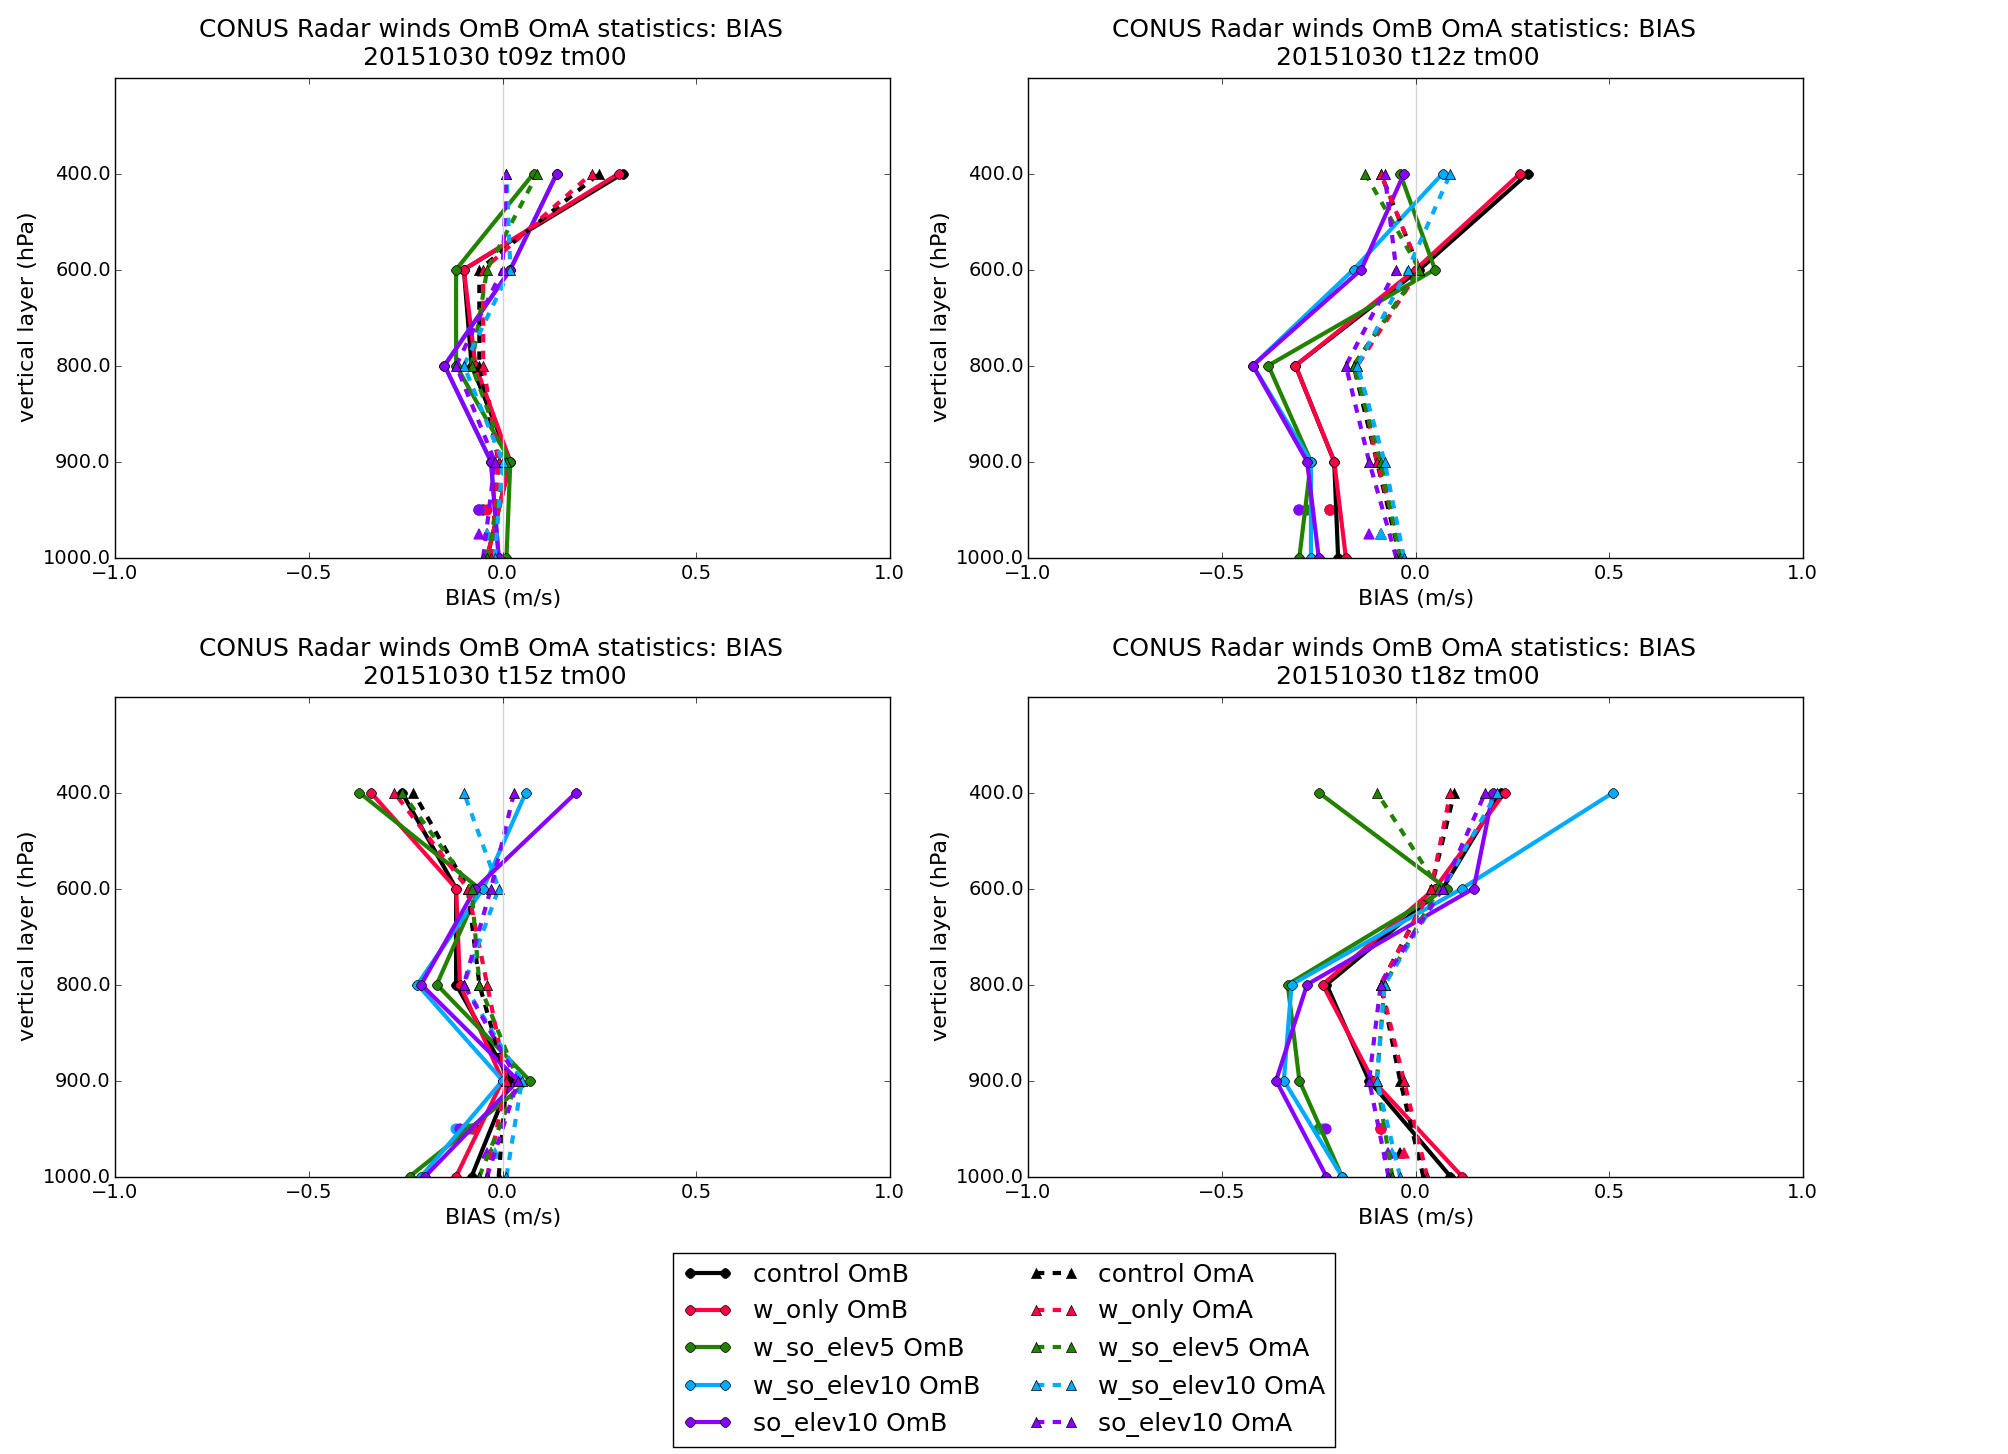
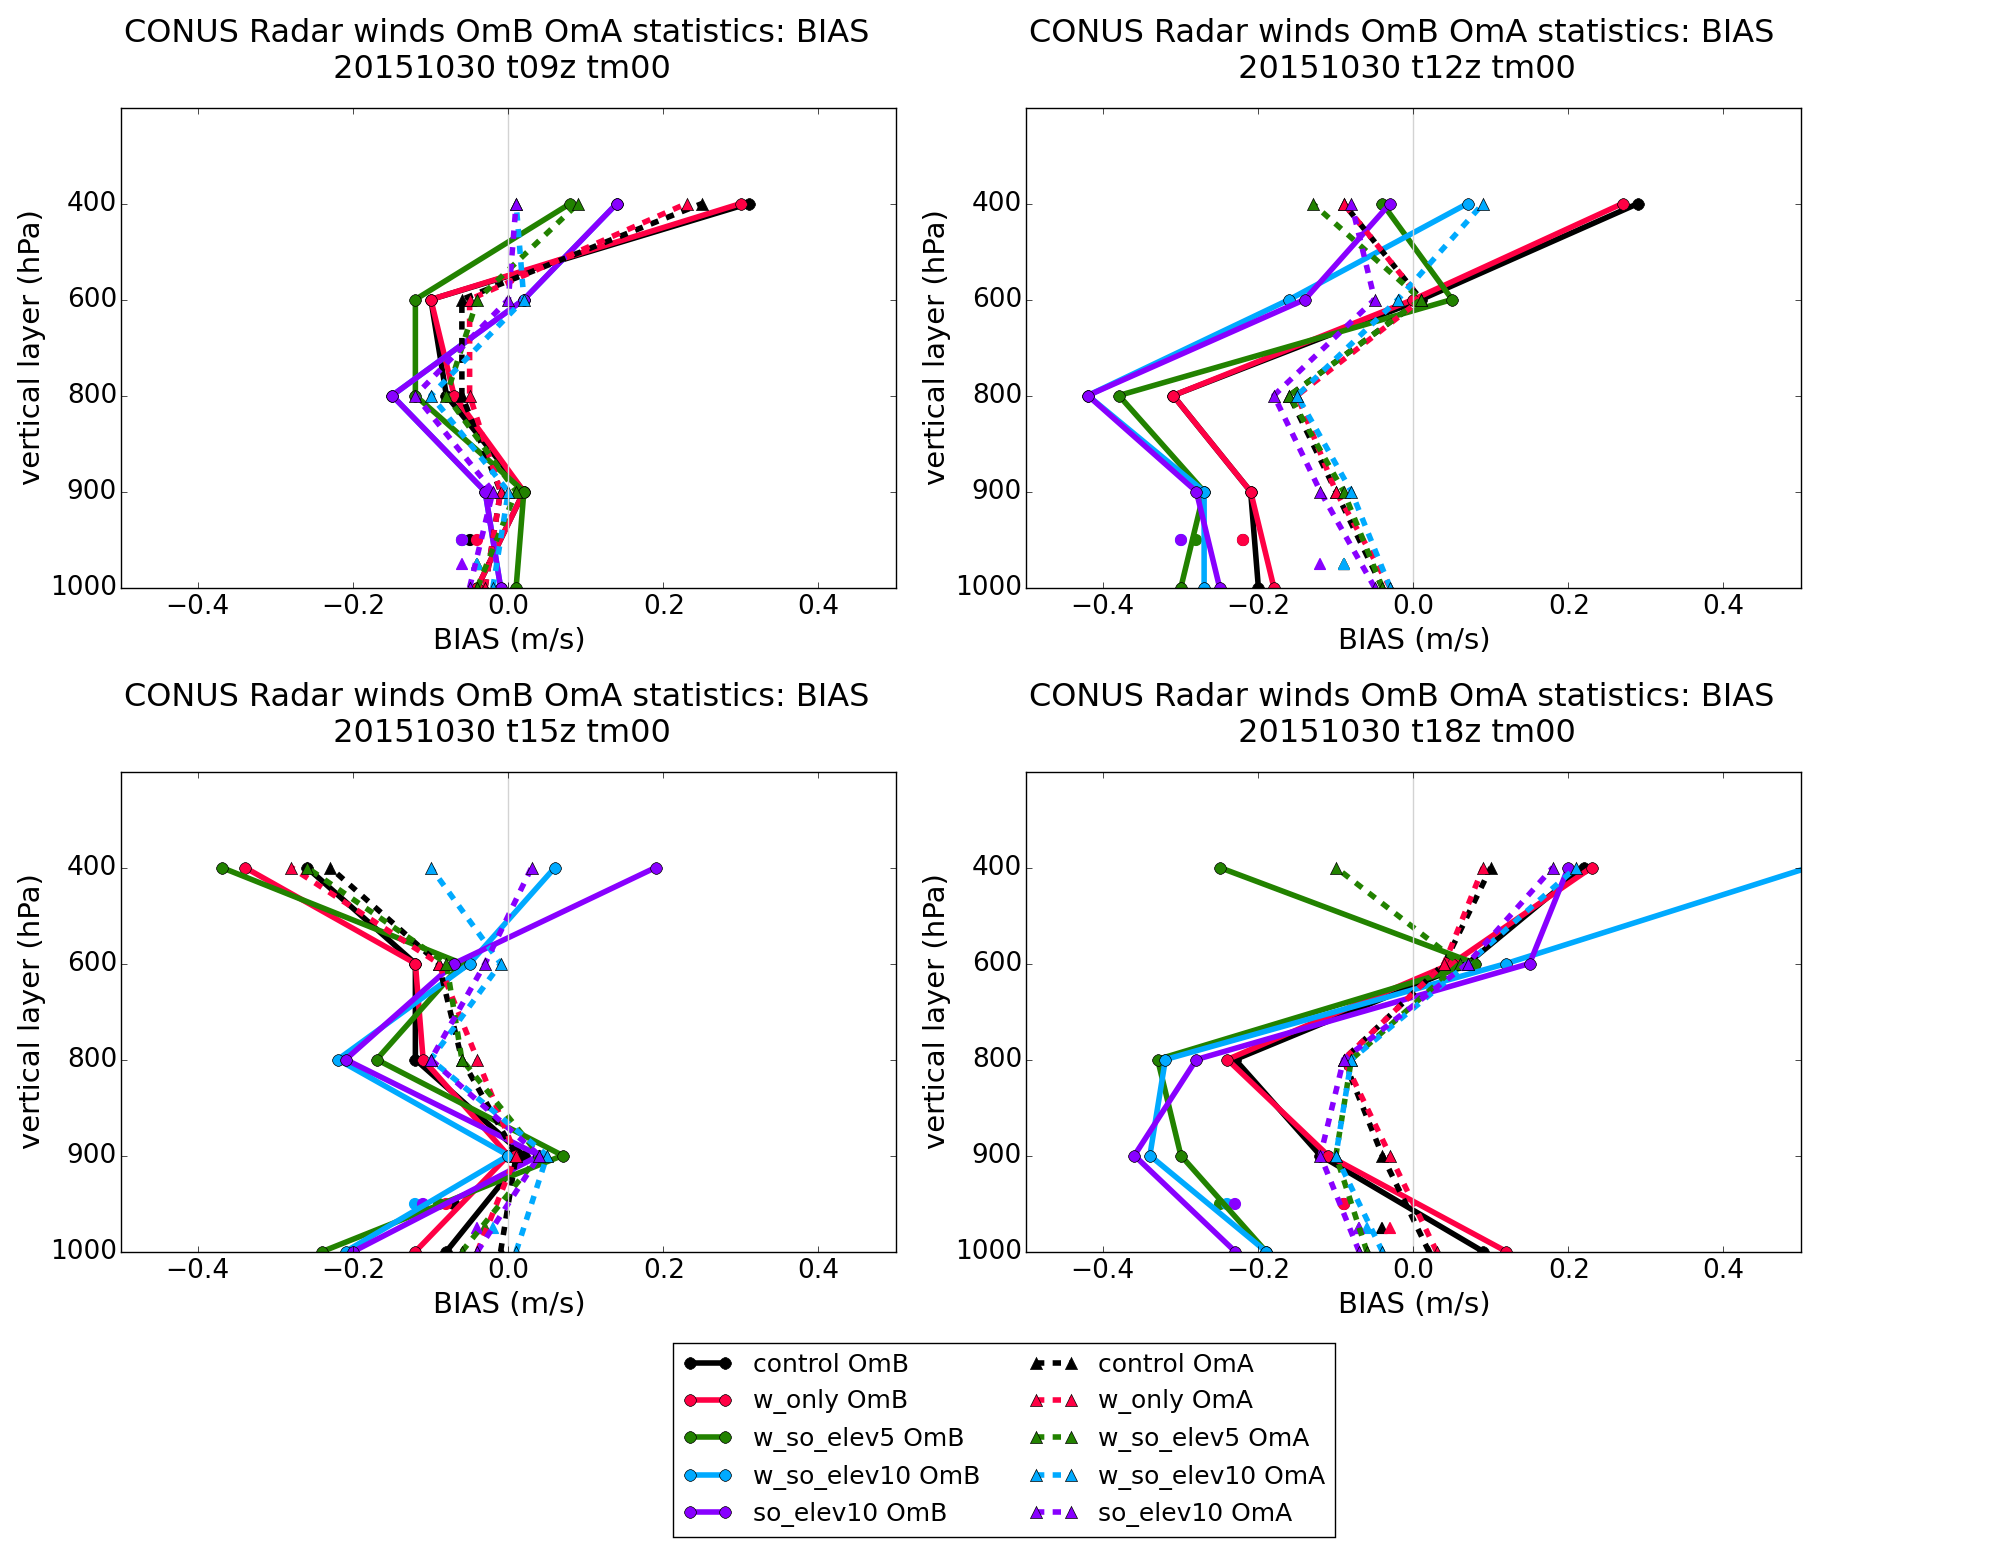
Update figures. Improve readability.

diff --git a/namv4/plot_rwfits.py b/namv4/plot_rwfits.py
@@ -86,21 +86,15 @@ for expi in range(len(experiments)):
 
 ###################################
 fig = plt.figure(1,figsize=(10,6))#
-fig_title_fontsize=18             #
-xy_label_fontsize=16              #
-tick_label_fontsize=14            #
-legend_fontsize=8.8               #8.8
-dot_size=50                       #40
-l_dot_size=7                      #5
-linewidth=3                       #2
+fig_title_fontsize=23             #18
+xy_label_fontsize=21              #16
+tick_label_fontsize=19            #14
+legend_fontsize=11.               #8.8
+dot_size=60                       #40
+l_dot_size=8                      #5
+linewidth=4                       #2
 ###################################
 
-
-
-
-if(var=='COUNT'): vari=0
-if(var=='BIAS'): vari=1
-if(var=='RMS'): vari=2
 
 plot_all_exps=True
 
@@ -109,15 +103,23 @@ ax1 = fig.add_subplot(111)
 ylow=0; yhigh=levs; ax1.set_ylim(ylow,yhigh)
 
 if(var=='COUNT'):
-   xlow=0; xhigh=350000; ax1.set_xlim(xlow,xhigh)
-   plt.xlabel(var,fontsize=xy_label_fontsize)
+   vari=0
+   scale_factor=1000.
+   xlow=0/scale_factor; xhigh=350000/scale_factor; ax1.set_xlim(xlow,xhigh)
+   plt.xlabel(var+r'($\times 10^{3}$)',fontsize=xy_label_fontsize)
+   stats_omb[:,:,vari]=stats_omb[:,:,vari]/scale_factor
+   stats_oma[:,:,vari]=stats_oma[:,:,vari]/scale_factor
 
 if(var == 'BIAS'):
-   xlow=-1.0; xhigh=1.; ax1.set_xlim(xlow,xhigh)
+   vari=1
+   scale_factor=1.
+   xlow=-0.5; xhigh=0.5; ax1.set_xlim(xlow,xhigh)
    plt.xlabel(var+' (m/s)',fontsize=xy_label_fontsize)
 
 if(var=='RMS'):
-   xlow=0; xhigh=3; ax1.set_xlim(xlow,xhigh)
+   vari=2
+   scale_factor=1.
+   xlow=0.0; xhigh=2.5; ax1.set_xlim(xlow,xhigh)
    plt.xlabel(var+' (m/s)',fontsize=xy_label_fontsize)
 
 if(True):
@@ -154,6 +156,8 @@ if(True):
 
 
 ax1.set_yticks(levels_int)
+for l in range(len(levels)): #this loops improves y axis labels (e.g., converts 1000.0 to 1000)
+    levels[l] = str(int(float(levels[l])))
 ax1.set_yticklabels(levels)
 ax1.axvline(x=0,color='lightgray')
 plt.ylabel('vertical layer (hPa)',fontsize=xy_label_fontsize)
@@ -166,11 +170,11 @@ if(include_legend and not legend_is_separate_figure):
    leg=ax1.legend(fontsize=legend_fontsize,ncol=4,scatterpoints=1,loc='upper center',bbox_to_anchor=(0.,-0.2,1.,.102))
    leg=ax1.legend(fontsize=legend_fontsize,ncol=4,scatterpoints=1,loc='upper center')
    leg.get_frame().set_alpha(0.9)
-   title=plt.suptitle('CONUS Radar winds OmB OmA statistics: %s \n %s t%sz tm%s' % (var,pdy,cyc,tmxx),fontsize=fig_title_fontsize,x=0.5,y=1.00)
+   title=plt.suptitle('CONUS Radar winds OmB OmA statistics: %s \n %s t%sz tm%s' % (var,pdy,cyc,tmxx),fontsize=fig_title_fontsize,x=0.5,y=1.05)
    plt.savefig('./'+var+'_'+pdy+'.namrr.t'+cyc+'z.fits_conusnest.tm'+tmxx+'.png',bbox_extra_artists=(leg,title,),bbox_inches='tight')
 
 elif(include_legend and legend_is_separate_figure):
-   title=plt.suptitle('CONUS Radar winds OmB OmA statistics: %s \n %s t%sz tm%s' % (var,pdy,cyc,tmxx),fontsize=fig_title_fontsize,x=0.5,y=1.00)
+   title=plt.suptitle('CONUS Radar winds OmB OmA statistics: %s \n %s t%sz tm%s' % (var,pdy,cyc,tmxx),fontsize=fig_title_fontsize,x=0.5,y=1.05)
    plt.savefig('./'+var+'_'+pdy+'.namrr.t'+cyc+'z.fits_conusnest.tm'+tmxx+'.png',bbox_extra_artists=(title,),bbox_inches='tight')
    plt.ion(); plt.show() #; plt.pause(0.001); raw_input("Press [enter] to continue.") #create a blocking figure and waits for user to inspect
    figlegend = plt.figure(2,figsize=(20,2))
